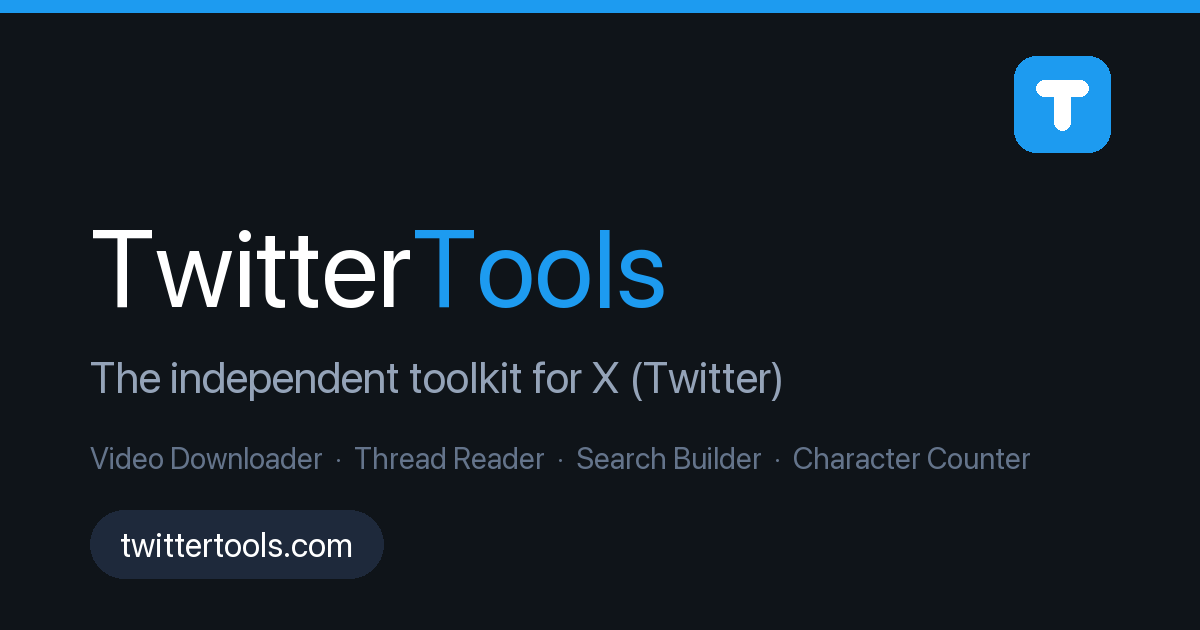
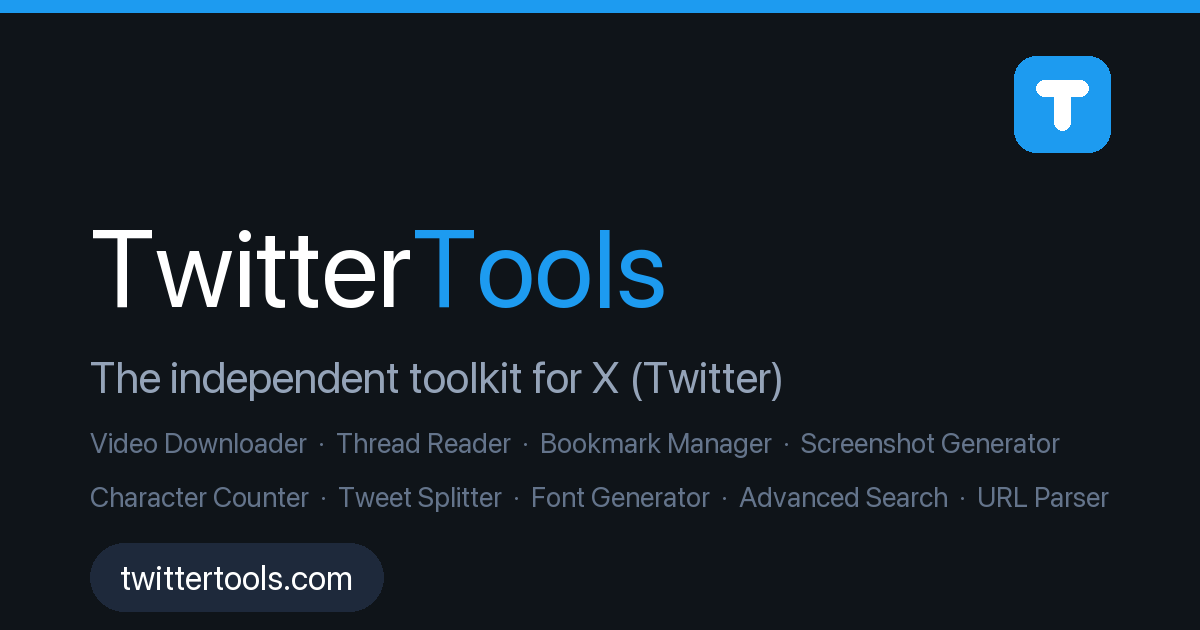
og.png: regenerate with all ten tools

Changed region(s): [[0.0617, 0.6937, 0.925, 0.9952]]

diff --git a/scripts/gen_og.py b/scripts/gen_og.py
@@ -46,17 +46,31 @@ def main():
     sub_font = load_font(44)
     d.text((90, 350), "The independent toolkit for X (Twitter)", font=sub_font, fill=MUTED)
 
-    # feature line
-    feat_font = load_font(30)
-    d.text((90, 440), "Video Downloader  ·  Thread Reader  ·  Search Builder  ·  Character Counter",
-           font=feat_font, fill=(100, 116, 139))
+    # feature lines: all ten tools, two rows, auto-fitted to the card width
+    feat_lines = [
+        "Video Downloader  ·  Thread Reader  ·  Bookmark Manager  ·  Screenshot Generator",
+        "Character Counter  ·  Tweet Splitter  ·  Font Generator  ·  Advanced Search  ·  URL Parser",
+    ]
+    size = 30
+    while size > 20:
+        f = load_font(size)
+        if all(text_width(d, t, f) <= W - 180 for t in feat_lines):
+            break
+        size -= 2
+    feat_font = load_font(size)
+
+    y = 425
+    for line in feat_lines:
+        d.text((90, y), line, font=feat_font, fill=(100, 116, 139))
+        y += size + 26
 
     # domain pill at bottom
     pill_font = load_font(34, bold=True)
     pill_text = "twittertools.com"
     pw = text_width(d, pill_text, pill_font) + 60
-    d.rounded_rectangle([90, 510, 90 + pw, 510 + 68], radius=34, fill=(30, 41, 59))
-    d.text((90 + 30, 510 + 14), pill_text, font=pill_font, fill=(255, 255, 255))
+    pill_y = y + 10
+    d.rounded_rectangle([90, pill_y, 90 + pw, pill_y + 68], radius=34, fill=(30, 41, 59))
+    d.text((90 + 30, pill_y + 14), pill_text, font=pill_font, fill=(255, 255, 255))
 
     # small TwitterTools "T" mark top right (original geometry, not X brand assets)
     m = 96  # mark box
